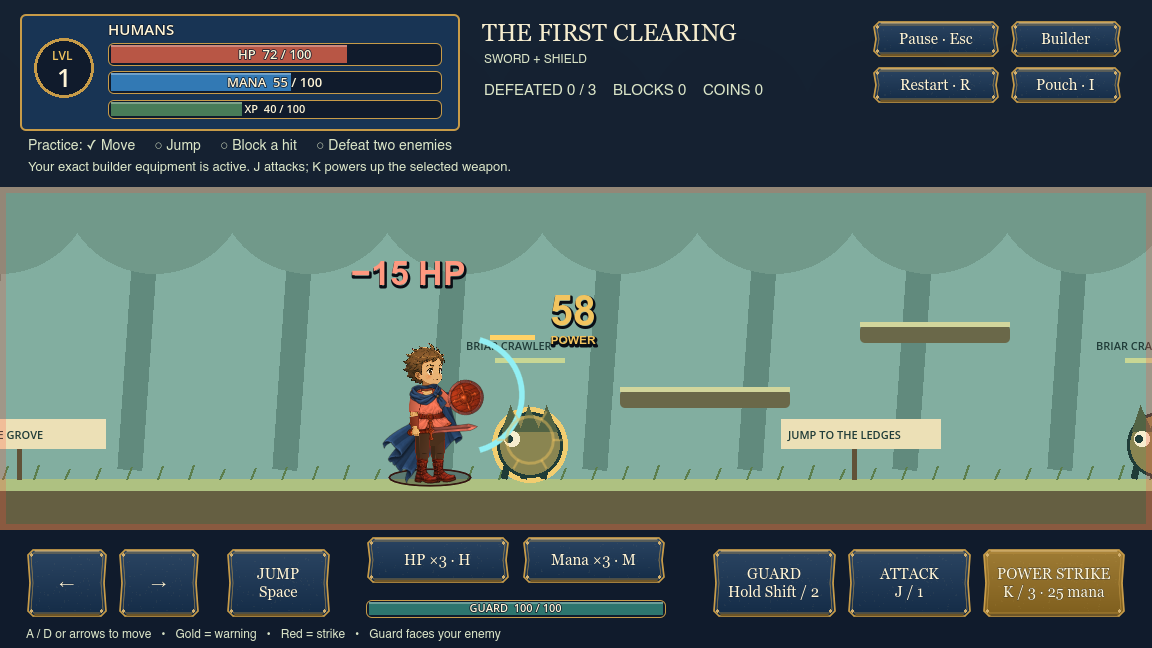
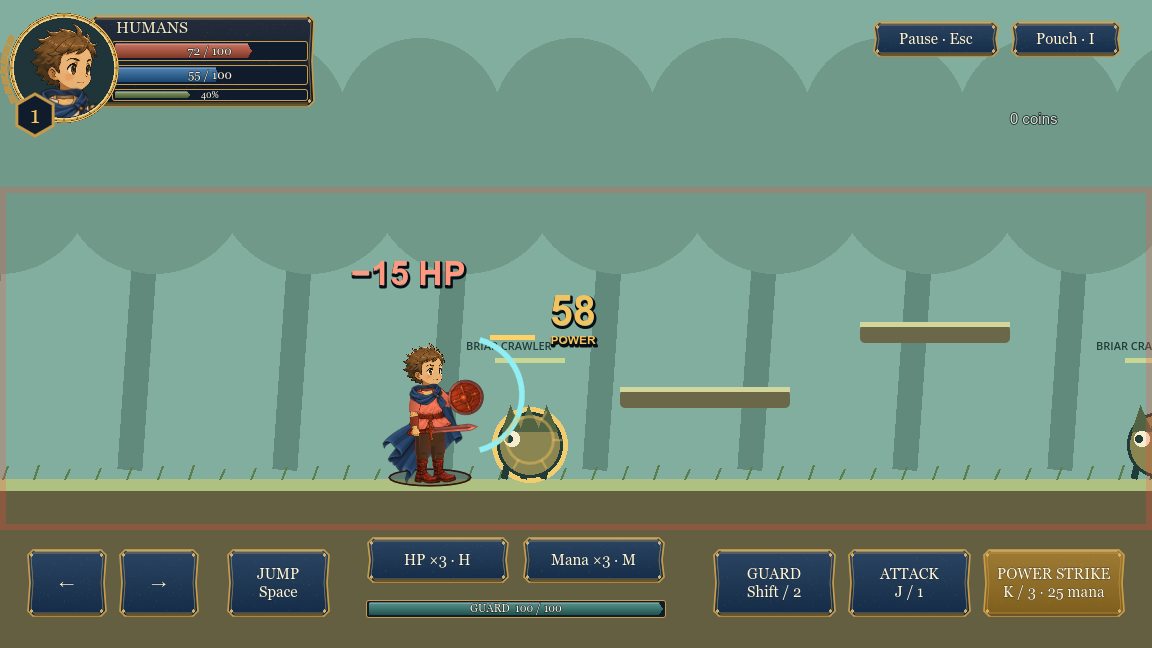
Match portrait resource HUD to mockup and remove prototype hints

diff --git a/prototypes/training_clearing/README.md b/prototypes/training_clearing/README.md
@@ -97,3 +97,17 @@ Observe: can players recognize and block the warning without instruction? Does
 attack commitment feel fair? Can touch users move and act simultaneously? Does
 Power Strike create a worthwhile mana choice? Is recovery understandable?
 The verdict is pending hands-on play, especially on physical mobile devices.
+
+The play screen intentionally omits the practice checklist, debug counters,
+instructional signs and persistent tutorial prose, following the uncluttered
+world presentation in `designs/npc-interaction-mockup.png`. Action hotkeys and
+resource/cost information remain; Builder and Restart are exposed while paused.
+The practice conditions still run in the local model. Controls are documented
+here rather than overlaid on the world. The pouch shows item details and errors,
+not a permanent drag-and-drop instruction banner.
+
+The top-left resource HUD follows the NPC mockup's compact portrait medallion,
+overlapping level badge, name, red/blue numeric bars and slim green XP percentage.
+The portrait renders the equipped character (including headgear) once per outfit
+change through `src/ui/character_portrait.gd`; it is not a continuously animated
+second character. `capture_hud.gd` produces an eight-lineage visual audit.
